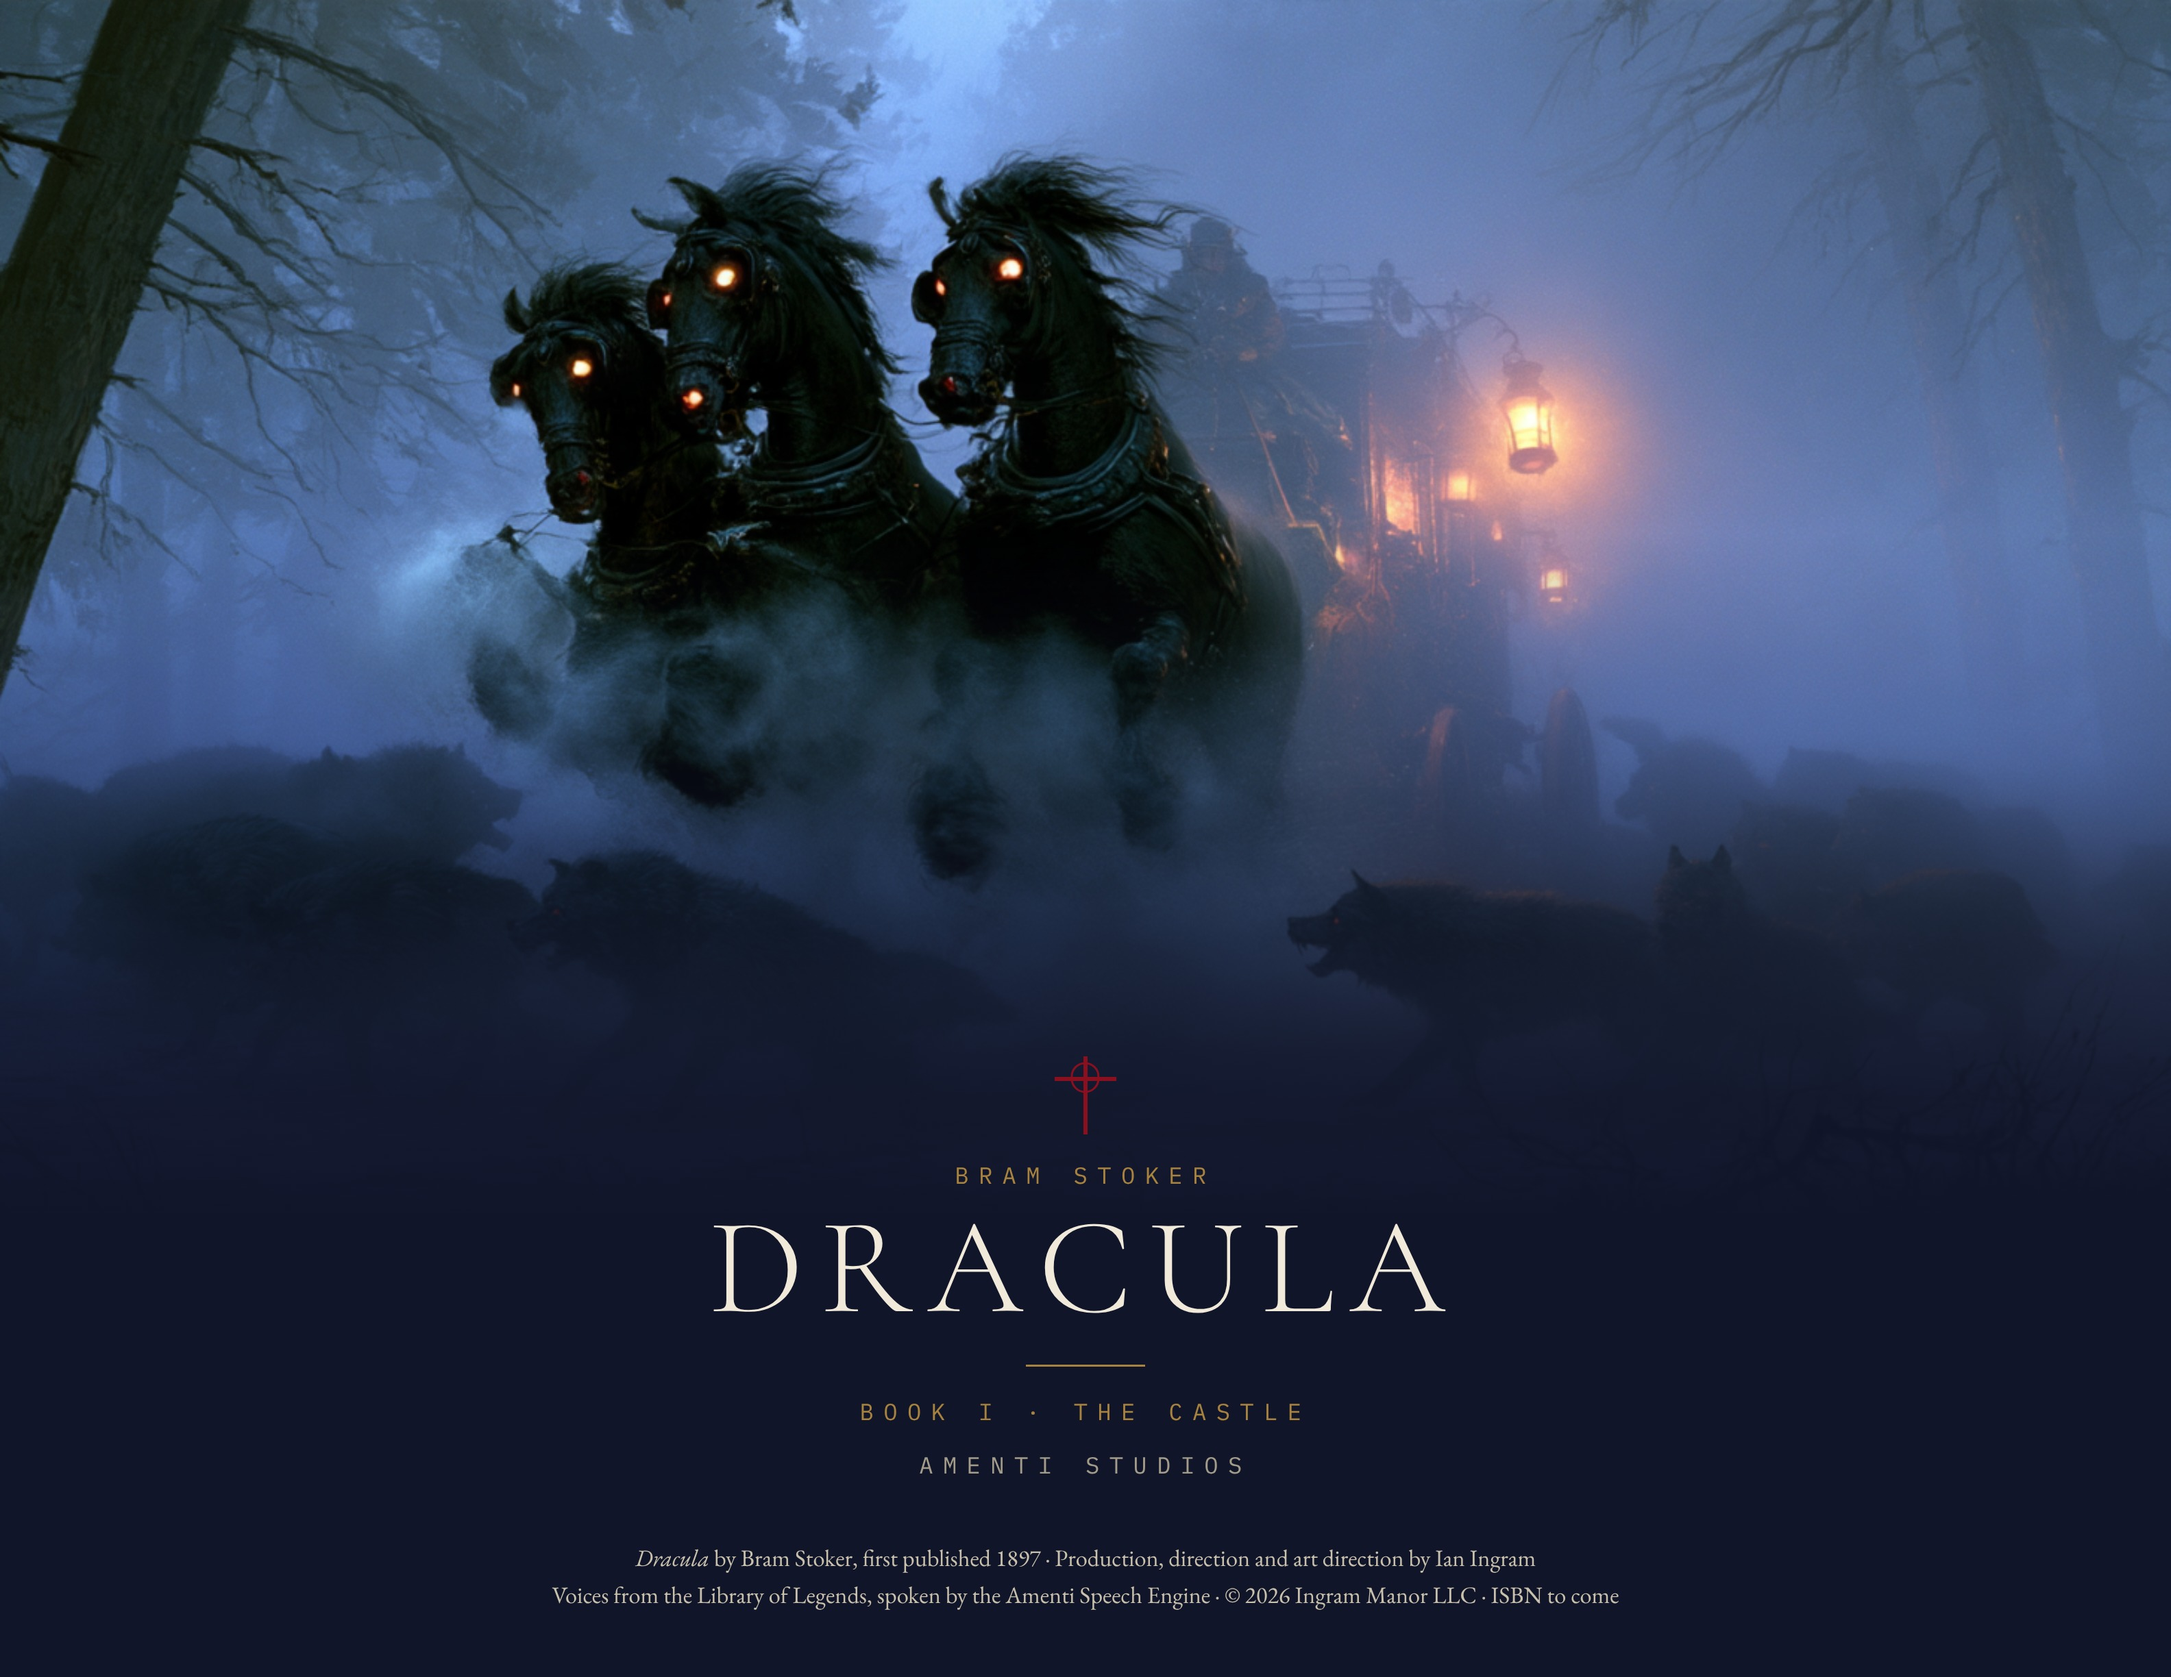
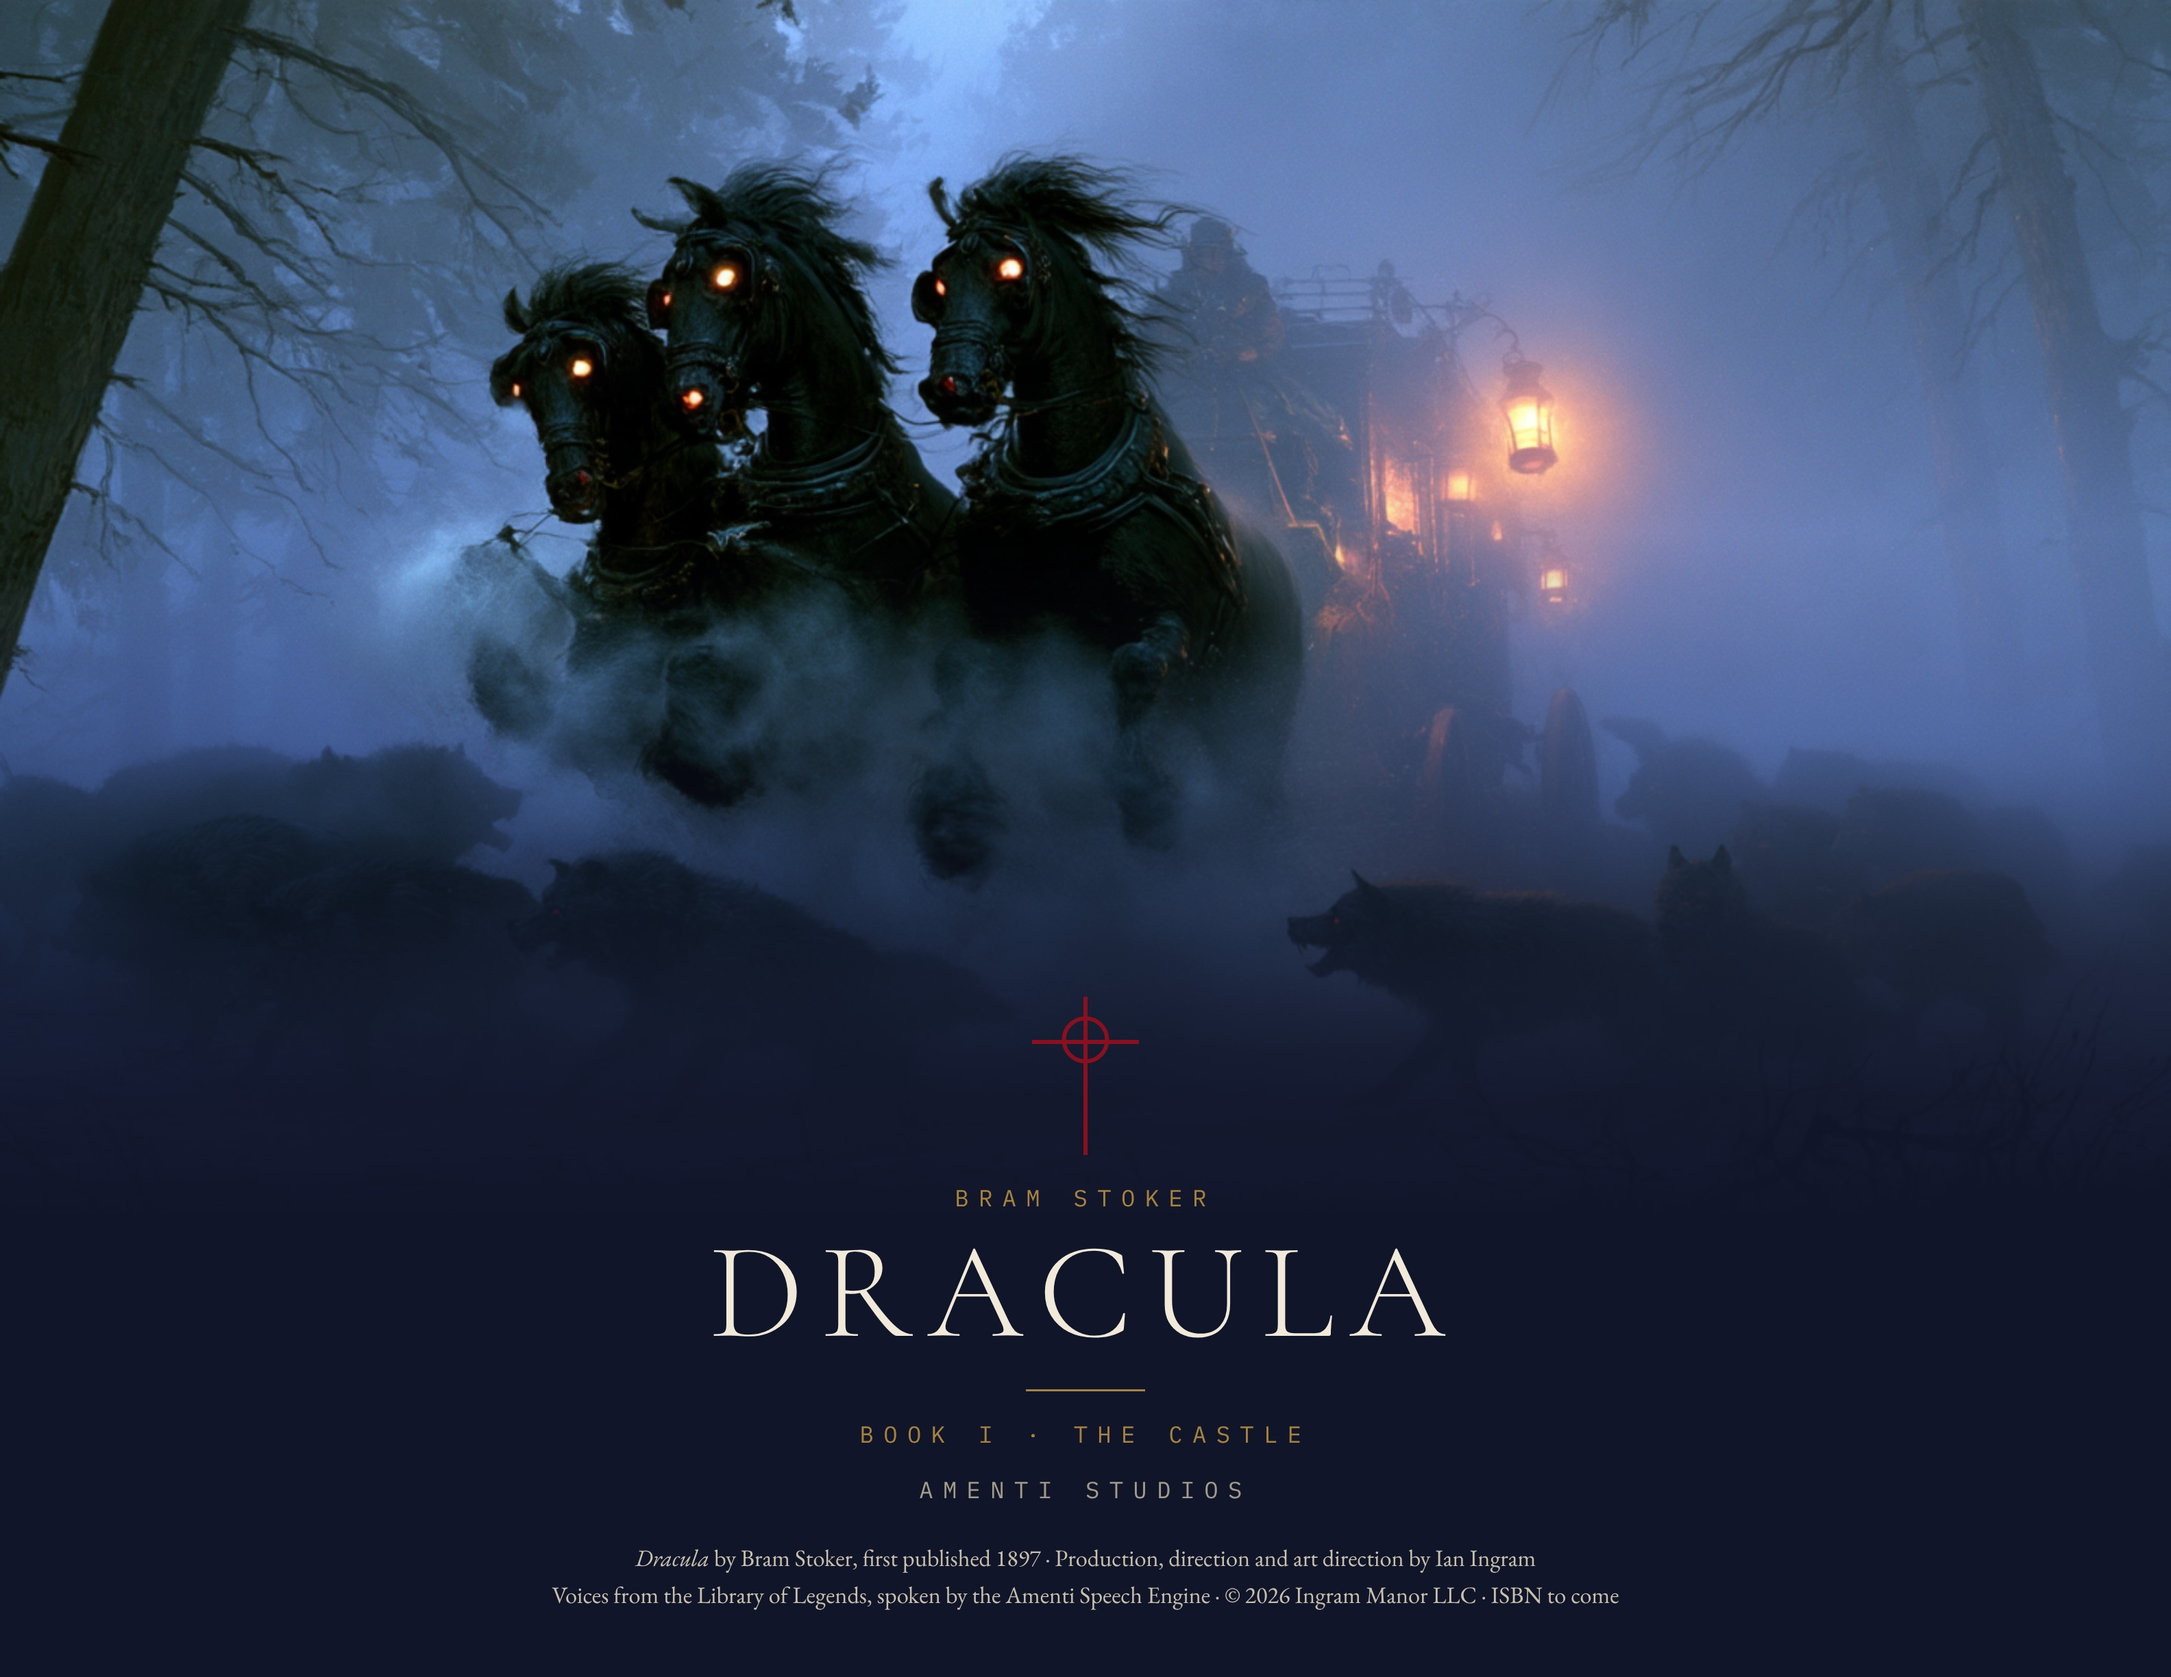
Book I print: larger red cross on the title page
Claude-Session: https://claude.ai/code/session_013VwDP7mPLrP4eYudhxc4u4

diff --git a/dracula/books/book-1/print/title-w3.html b/dracula/books/book-1/print/title-w3.html
@@ -45,6 +45,6 @@ html,body{margin:0;background:#555}
 </style></head><body style="margin:0;background:#000"><div class="pg night R" style="margin:0;background:#11152a">
 <div style="position:absolute;left:0;right:0;top:0;height:6.16in;background:url(title-wolves.png) center top/100% auto no-repeat"></div>
 <div style="position:absolute;left:0;right:0;top:2.7in;height:3.5in;background:linear-gradient(180deg,rgba(17,21,42,0) 0%,rgba(17,21,42,.35) 30%,rgba(17,21,42,.75) 60%,rgba(17,21,42,.95) 82%,#11152a 100%)"></div>
-<div style="position:absolute;left:0;right:0;top:5.35in;text-align:center;color:#efe7d8"><div class="cross" style="height:.4in;margin-bottom:.12in"><i></i></div><div class="k">Bram Stoker</div><div class="big" style="color:#f1e9da;font-size:50pt;letter-spacing:.12em;margin:.06in 0">DRACULA</div><div class="rule" style="margin:.14in auto"></div><div class="k">Book I · The Castle</div><div style="height:.12in"></div><div class="k" style="color:#a39c8a">Amenti Studios</div></div>
+<div style="position:absolute;left:0;right:0;top:5.05in;text-align:center;color:#efe7d8"><div class="cross" style="width:.55in;height:.8in;margin-bottom:.14in"><i style="width:.24in;height:.24in;border-width:2.2px"></i></div><div class="k">Bram Stoker</div><div class="big" style="color:#f1e9da;font-size:50pt;letter-spacing:.12em;margin:.06in 0">DRACULA</div><div class="rule" style="margin:.14in auto"></div><div class="k">Book I · The Castle</div><div style="height:.12in"></div><div class="k" style="color:#a39c8a">Amenti Studios</div></div>
 <div style="position:absolute;left:0;right:0;bottom:.32in;text-align:center;font:8.6pt/1.6 G;color:#c9c1ae"><i>Dracula</i> by Bram Stoker, first published 1897 · Production, direction and art direction by Ian Ingram<br>Voices from the Library of Legends, spoken by the Amenti Speech Engine · © 2026 Ingram Manor LLC · ISBN to come</div>
 </div><script>document.fonts.ready.then(()=>document.title='done')</script></body></html>
